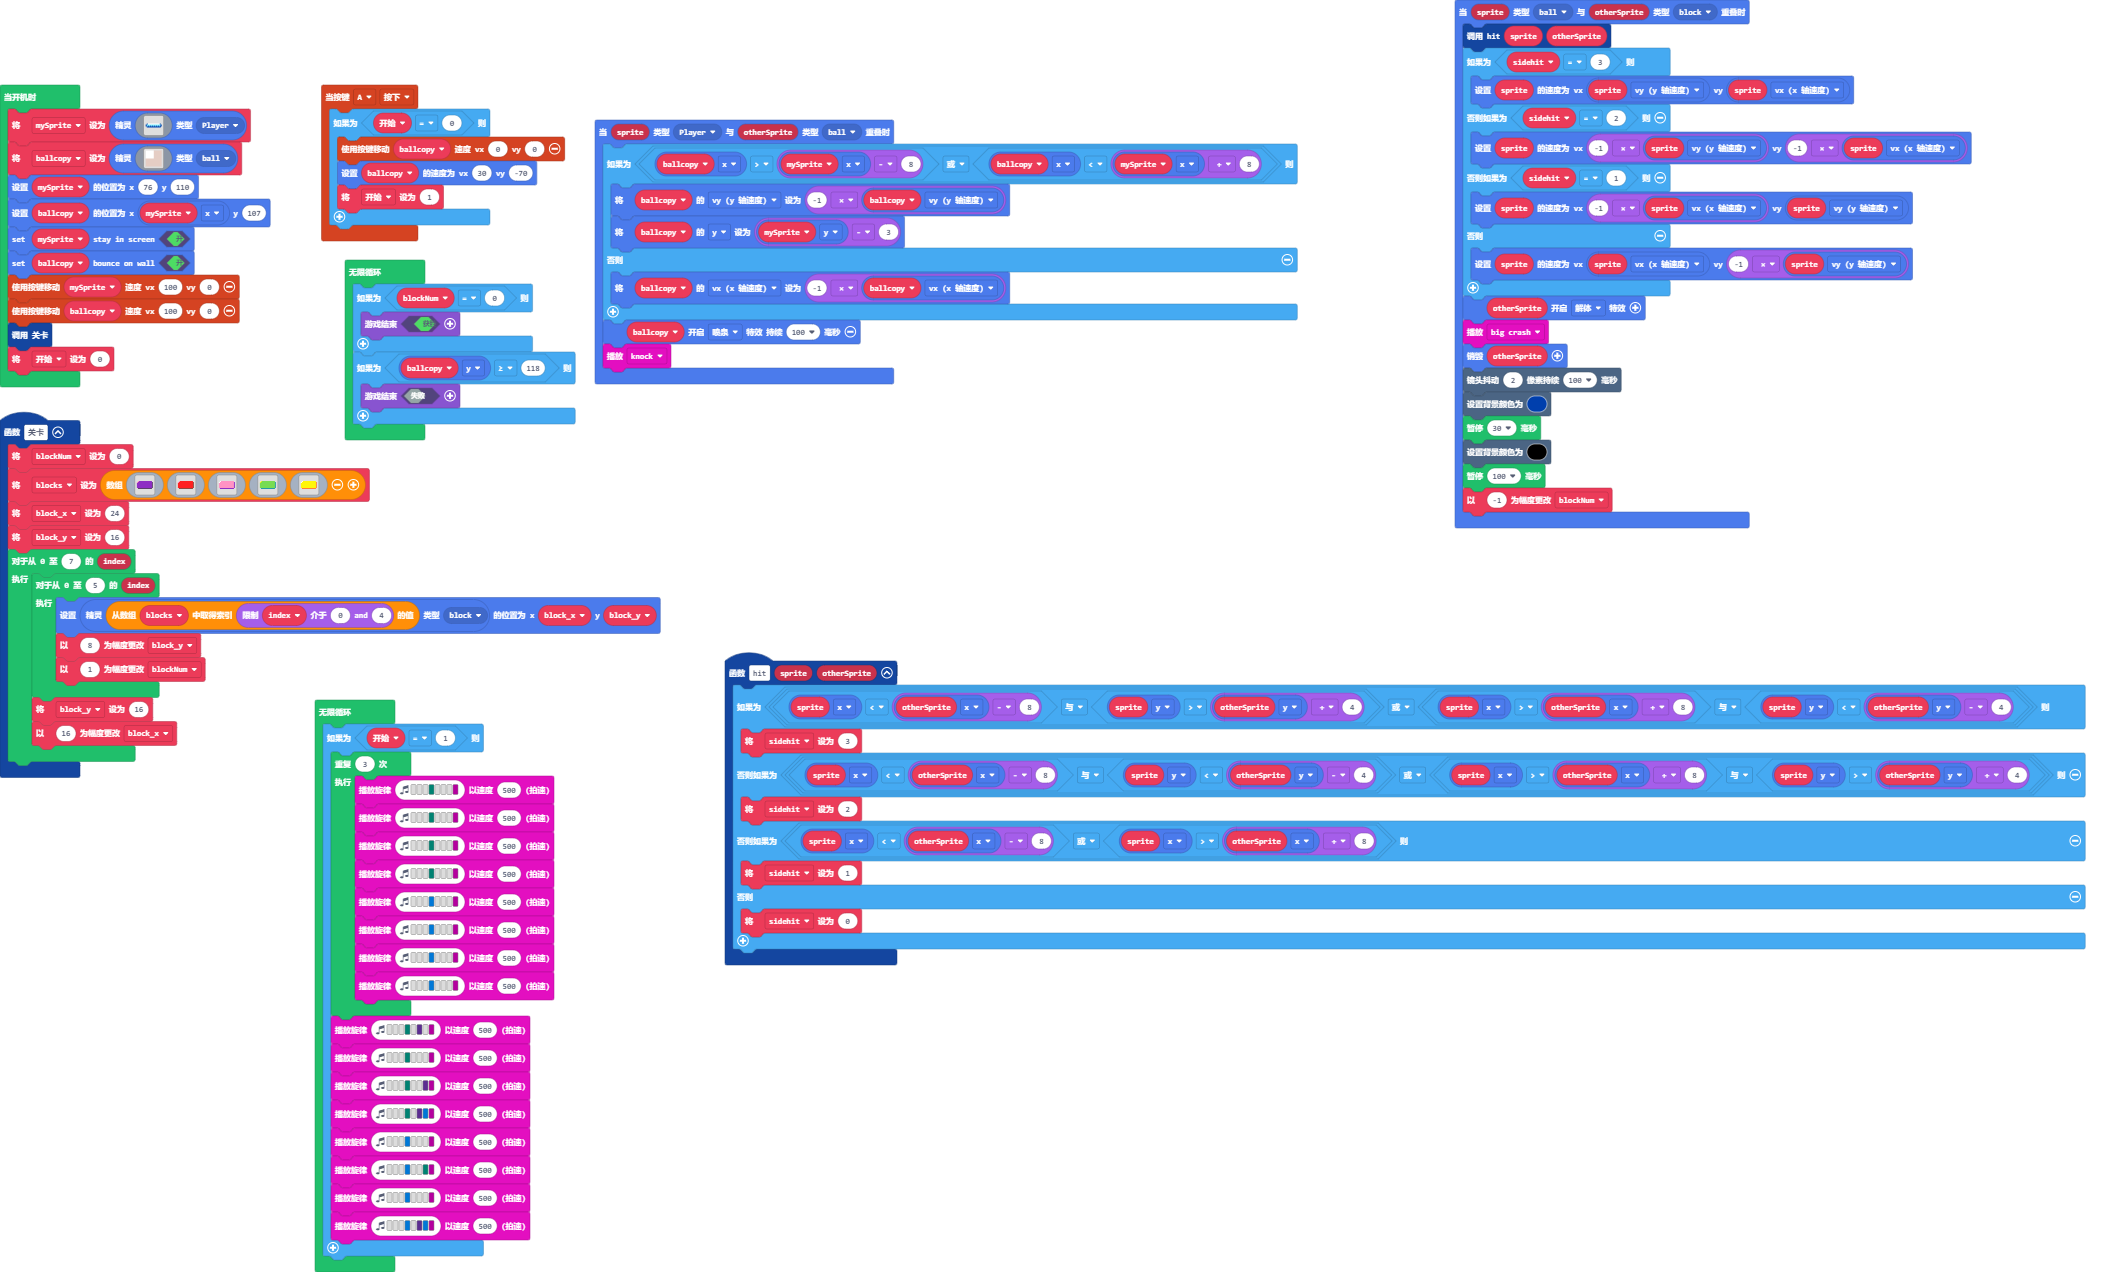
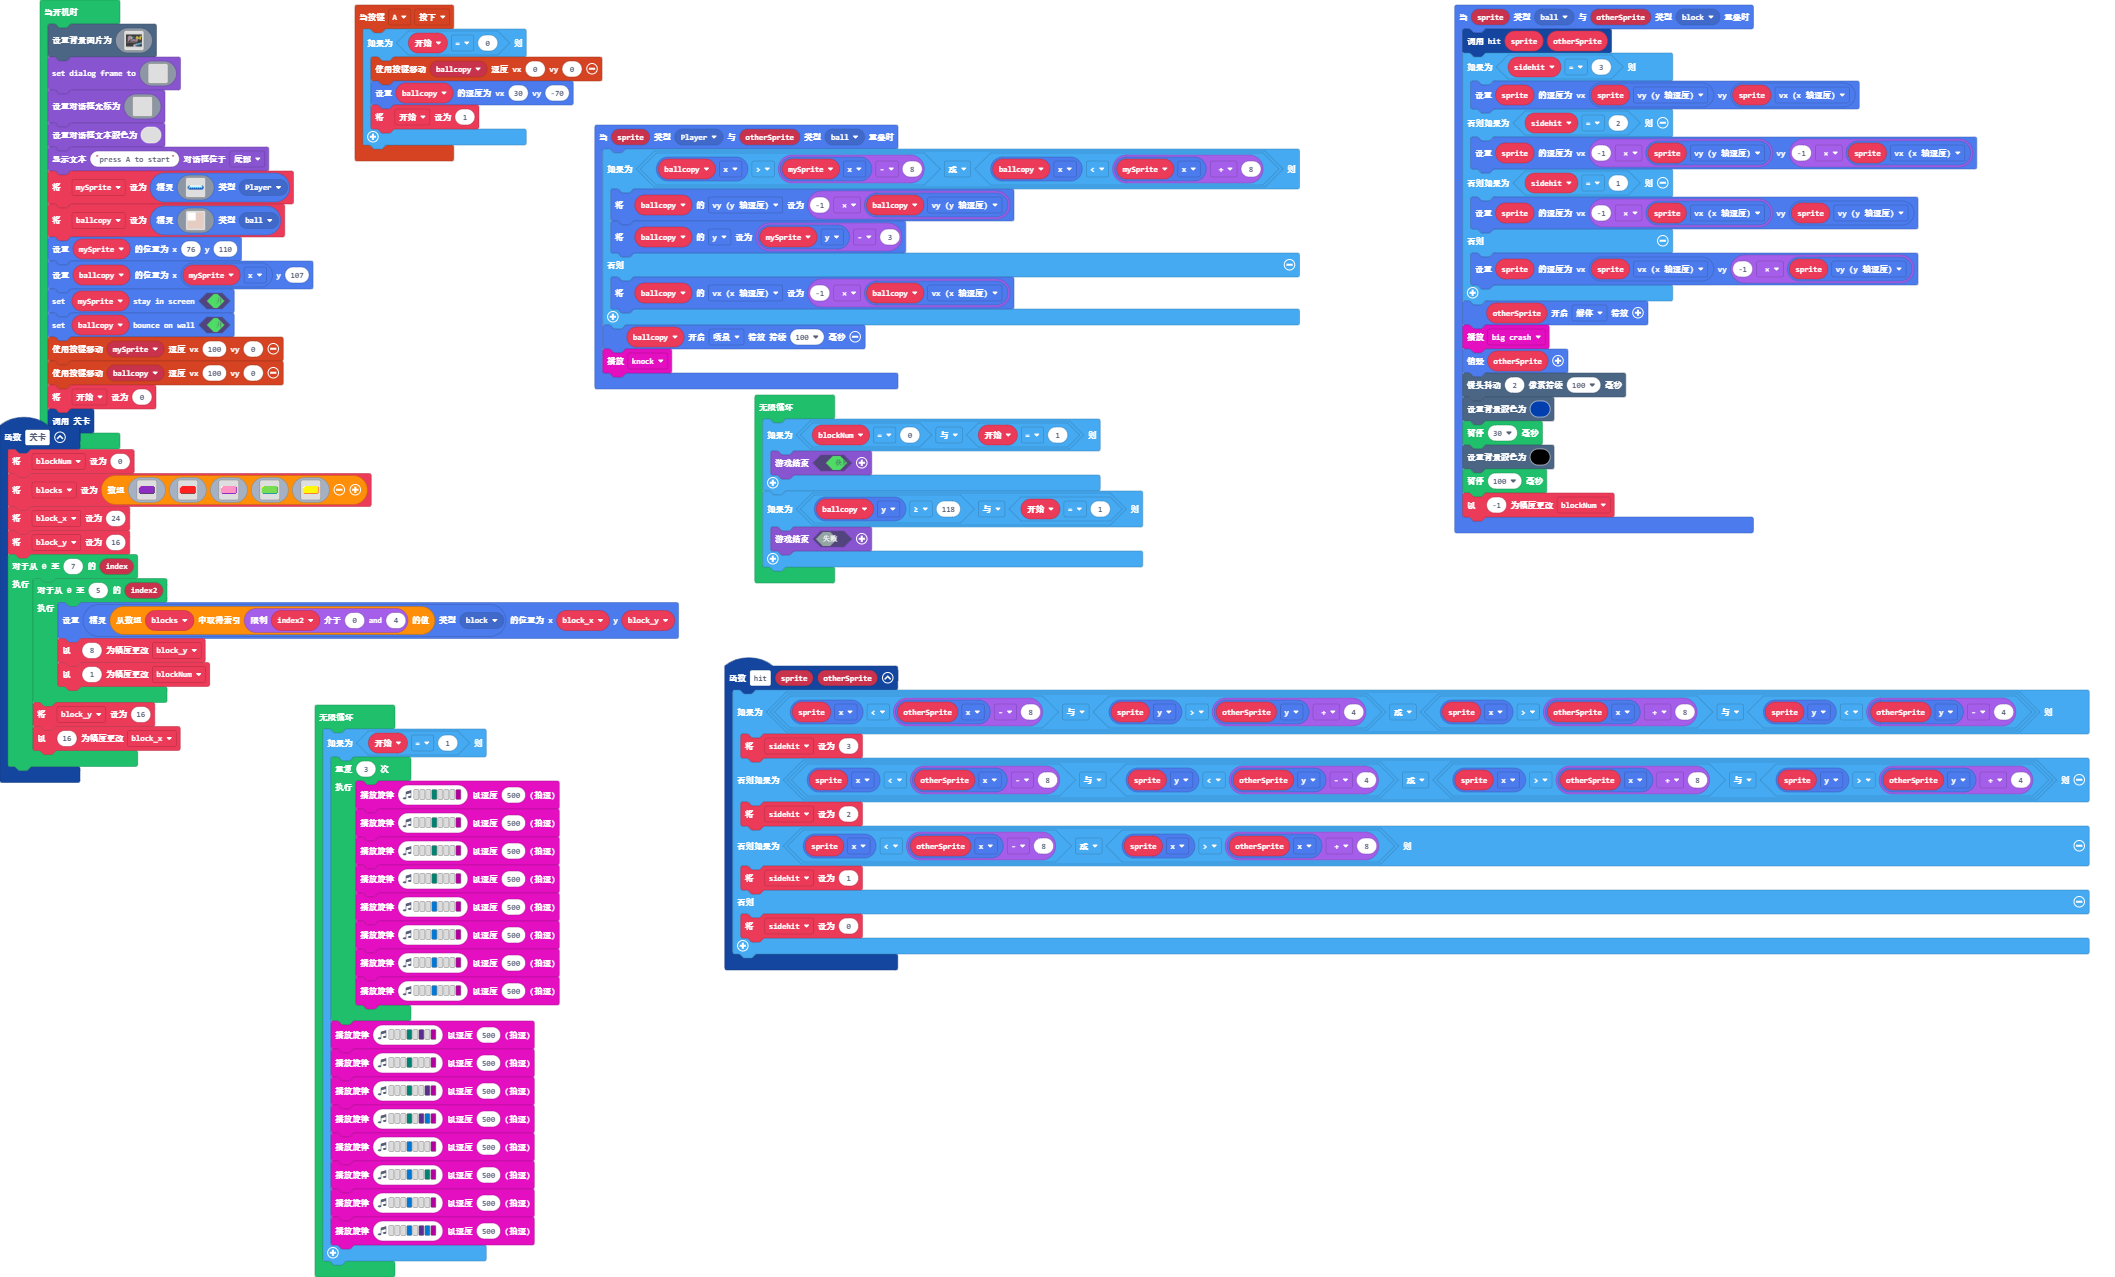
更新 main.blocks, main.ts, images.g.jres, images.g.ts

diff --git a/images.g.ts b/images.g.ts
@@ -74,6 +74,129 @@ a a a a a a a a a a a a a a a c
 5 5 5 5 5 5 5 5 5 5 5 5 5 5 5 4 
 . 4 4 4 4 4 4 4 4 4 4 4 4 4 4 . 
 `;
+            case "image8":
+            case "myImage0":return img`
+ffffffffffffffffffffffffffffffffffffffffffffffffffffffffffffffffffffffffffffffffffffffffffffffffffffffffffffffffffffffffffffffffffffffffffffffffffffffffffffffff
+ffffffffffffffffffffffffffffffffffffffffffffffffffffffffffffffffffffffffffffffffffffffffffffffffffffffffffffffffffffffffffffffffffffffffffffffffffffffffffffffff
+ffffffffffffffffffffffffffffffffffffffffffffffffffffffffffffffffffffffffffffffffffffffffffffffffffffffffffffffffffffffffffffffffffffffffffffffffffffffffffffffff
+ffffffffffffffffffffffffffffffffffffffffffffffffffffffffffffffffffffffffffffffffffffffffffffffffffffffffffffffffffffffffffffffffffffffffffffffffffffffffffffffff
+ffffffffffffffffffffffffffffffffffffffffffffffffffffffffffffffffffffffffffffffffffffffffffffffffffffffffffffffffffffffffffffffffffffffffffffffffffffffffffffffff
+ffffffffffffffffffffffffffffffffffffffffffffffffffffffffffffffffffffffffffffffffffffffffffffffffffffffffffffffffffffffffffffffffffffffffffffffffffffffffffffffff
+ffffffffffffffffffffffffffffffffffffffffffffffffffffffffffffffffffffffffffffffffffffffffffffffffffffffffffffffffffffffffffffffffffffffffffffffffffffffffffffffff
+ffffffffffffffffffffffffffffffffffffffffffffffffffffffffffffffffffffffffffffffffffffffffffffffffffffffffffffffffffffffffffffffffffffffffffffffffffffffffffffffff
+ffffffffffffffffffffffffffffffffffffffffffffffffffffffffffffffffffffffffffffffffffffffffffffffffffffffffffffffffffffffffffffffffffffffffffffffffffffffffffffffff
+ffffffffffffffffffffffffffffffffffffffffffffffffffffffffffffffffffffffffffffffffffffffffffffffffffffffffffffffffffffffffffffffffffffffffffffffffffffffffffffffff
+ffffffffffffffffffffffffffffffffffffffffffffffffffffffffffffffffffffffffffffffffffffffffffffffffffffffffffffffffffffffffffffffffffffffffffffffffffffffffffffffff
[46 lines of base64/hex data omitted]
+ffffffffffffffffccccccdbbbbbbbbbbbbffffffffffffccbcbcbcbcbbfffccccbbbbbbbbbbbbbbbbbbbbbbbbbfccbbbbbbbbbffccccbbbbbbbbbbfffffffffffffffffffffffffffffffffffffffff
+fffffffffffffffffcfcfcdbbbbbbbbbbbffffffffffffccccbcbcbcbbbfffcccbbbbbbbbbbbbbbbbbbbbbbbbbbfccbbbbbbbbffffcccbbbbbbbbbffffffffffffffffffffffffffffffffffffffffff
+ffffffffffffffffccccccdbbbbbbbbbbfffffffffffffccbbcbcbcbbbffffcccbbbbbbbbbbbbbbbbbbbbbbbbbbcccbbbbbbbbfffcccbbbbbbbbbbffffffffffffffffffffffffffffffffffffffffff
+fffffffffffffffffcfcfcdbbbbbbbbbbfffffffffffffcccbbbbbbbbbfffccccbbbbbbbbbbbbbbbbbbbbbbbbbfcccbbbbbbbbbffcccbbbbbbbbbfffffffffffffffffffffffffffffffffffffffffff
+ffffffffffffffffccccccbbbbbbbbbbffffffffffffffccbbbbbbbbbbfffcccbbbbbbbbbbbbbcccfbbbbbbbbbfcccbbbbbbbbbbddbbbbbbbbbbbfffffffffffffffffffffffffffffffffffffffffff
+fffffffffffffffcfcfcfcdbbbbbbbbffffffffffffffcccbbbbbbbbbffffcccbbbbbbbbbbbcfffccfbbbbbbbbfccccbbbbbbbbbbbbbbbbbbbbbbfffffffffffffffffffffffffffffffffffffffffff
+ffffffffffffffffcfcccdbbbbbbbbfffffffffffffffcccbbbbbbbbbfffcccbbbbbbbbbbbfffffccfbbbbbbbffcccccbbbbbbbbbbbbbbbbbbbbbfffffffffffffffffffffffffffffffffffffffffff
+fffffffffffffffcfcfccbbbbbbbbbfffffffffffffffcccbbbbbbbbbfffcccbbbbbbbbbbcfffffccbbbbbbbbffccccccbbbbbbbbbbbbbbbbbbbffffffffffffffffffffffffffffffffffffffffffff
+ffffffffffffffffcfcfcdbbbbbbbffffffffffffffffcccbbbbbbbbffffcccbbbbbbbbbbffffffccbbbbbbbffffccccccccbbbbbbbbbbbbbbbfffffffffffffffffffffffffffffffffffffffffffff
+fffffffffffffffcfcfccbbbbbbbfffffffffffffffffcccbbbbbbbbfffcccbbbbbbbbbbbffffffccbbbbbbcfffffccccfcfcfcfcffbbbbbbbbfffffffffffffffffffffffffffffffffffffffffffff
+ffffffffffffffffcfcfcdbbbbbbfffffffffffffffffcccbbbbbbbbfffcccbbbbbbbbbbffffffccfcfcfccffffffffcfcfcfcfcfccbbbbbbbffffffffffffffffffffffffffffffffffffffffffffff
+fffffffffffffffcfcfcbbbbbbbfffffffffffffffffcccbbbbbbbbffffccbbbbcccccccffffffcfcfffffffffffffffffffffffccbbbbbbbbffffffffffffffffffffffffffffffffffffffffffffff
+ffffffffffffffffcfcfbbbbbbffffffffffffffffffcccbbbbbbbbfffcccccfcfcfcfcffffffffffffffffffffffffffffffffcccbbbbbbbfffffffffffffffffffffffffffffffffffffffffffffff
+fffffffffffffffcfcfcbbbbbfffffffffffffffffffcccbbbbbbbbfffccfcfcfcfcffffffffffffffffffffffffffffffffffccbbbbbbbbbfffffffffffffffffffffffffffffffffffffffffffffff
+ffffffffffffffcfcfcfccccffffffffffffffffffffcccfcfcfcfcfffcfcfcfffffffffffffffffffffffffffffffffffffcccbbbbbbbbbffffffffffffffffffffffffffffffffffffffffffffffff
+fffffffffffffffcfcfcfccfffffffffffffffffffffccfcfcfcfffffffffffffffffffffffffffffffffffffffffffffbbbbbbbbbbbbbbfffffffffffffffffffffffffffffffffffffffffffffffff
+ffffffffffffffcfcfcfcfcfffffffffffffffffffffcfcffffffffffffffffffffffffffffffffffffffbbbbbbbbbbbbbbbbbbbbbbbbbffffffffffffffffffffffffffffffffffffffffffffffffff
+fffffffffffffffcfcfcfcfffffffffffffffffffffffffffffffffffffffffffffffffffbbbbbbbbbbbbbbbbbbbbbbbbbbbbbbbbbbbffffffffffffffffffffffffffffffffffffffffffffffffffff
+fffffffffffffffffffffffffffffffffffffffffffffffffffffffffffffbbbbbbbbbbbbbbbbbbbbbbbbbbbbbbbbbbbbbbbbbbbbbffffffffffffffffffffffffffffffffffffffffffffffffffffff
+ffffffffffffffffffffffffffffffffffffffffffffffffffbbbbbbbbbbbbbbbbbbbbbbbbbbbbbbbbbbbbbbbbbbbbbbbbbbbbbbffffffffffffffffffffffffffffffffffffffffffffffffffffffff
+ffffffffffffffffffffffffffffffffffffffbbbbbbbbbbbbbbbbbbbbbbbbbbbbbbbbbbbbbbbbbbbbbbbbbbbbbbbbbbbbbbbfffffffffffffffffffffffffffffffffffffffffffffffffffffffffff
+ffffffffffffffffffffffffffbbbbbbbbbbbbbbbbbbbbbbbbbbbbbbbbbbbbbbbbbbbbbbbbbbbccccccccccccccccccccfffffffffffffffffffffffffffffffffffffffffffffffffffffffffffffff
+ffffffffffffbbbbbbbbbbbbbbbbbbbbbbbbbbbbbbbbbbbbbbbbbbbbbbbccccccccccccccccccfffffffffffffffffffffffffffffffffffffffffffffffffffffffffffffffffffffffffffffffffff
+ffffbbbbbbbbbbbbbbbbbbbbbbbbbbbbbbbbbbbccccccccccccccccccccfffffffffffffffffffffffffffffffffffffffffffffffffffffffffffffffffffffffffffffffffffffffffffffffffffff
[39 lines of base64/hex data omitted]
+`;
         }
         return null;
     })

diff --git a/main.ts b/main.ts
@@ -26,8 +26,8 @@ function 关卡 () {
     block_x = 24
     block_y = 16
     for (let index = 0; index <= 7; index++) {
-        for (let index = 0; index <= 5; index++) {
-            sprites.create(blocks[Math.constrain(index, 0, 4)], SpriteKind.block).setPosition(block_x, block_y)
+        for (let index2 = 0; index2 <= 5; index2++) {
+            sprites.create(blocks[Math.constrain(index2, 0, 4)], SpriteKind.block).setPosition(block_x, block_y)
             block_y += 8
             blockNum += 1
         }
@@ -74,6 +74,44 @@ let sidehit = 0
 let 开始 = 0
 let ballcopy: Sprite = null
 let mySprite: Sprite = null
+scene.setBackgroundImage(assets.image`myImage0`)
+game.setDialogFrame(img`
+    . . . . . . . . . . . . . . . 
+    . . . . . . . . . . . . . . . 
+    . . . . . . . . . . . . . . . 
+    . . . . . . . . . . . . . . . 
+    . . . . . . . . . . . . . . . 
+    . . . . . . . . . . . . . . . 
+    . . . . . . . . . . . . . . . 
+    . . . . . . . . . . . . . . . 
+    . . . . . . . . . . . . . . . 
+    . . . . . . . . . . . . . . . 
+    . . . . . . . . . . . . . . . 
+    . . . . . . . . . . . . . . . 
+    . . . . . . . . . . . . . . . 
+    . . . . . . . . . . . . . . . 
+    . . . . . . . . . . . . . . . 
+    `)
+game.setDialogCursor(img`
+    . . . . . . . . . . . . . . . . 
+    . . . . . . . . . . . . . . . . 
+    . . . . . . . . . . . . . . . . 
+    . . . . . . . . . . . . . . . . 
+    . . . . . . . . . . . . . . . . 
+    . . . . . . . . . . . . . . . . 
+    . . . . . . . . . . . . . . . . 
+    . . . . . . . . . . . . . . . . 
+    . . . . . . . . . . . . . . . . 
+    . . . . . . . . . . . . . . . . 
+    . . . . . . . . . . . . . . . . 
+    . . . . . . . . . . . . . . . . 
+    . . . . . . . . . . . . . . . . 
+    . . . . . . . . . . . . . . . . 
+    . . . . . . . . . . . . . . . . 
+    . . . . . . . . . . . . . . . . 
+    `)
+game.setDialogTextColor(0)
+game.showLongText("press A to start", DialogLayout.Bottom)
 mySprite = sprites.create(assets.image`Temporary asset`, SpriteKind.Player)
 ballcopy = sprites.create(assets.image`Temporary asset0`, SpriteKind.ball)
 mySprite.setPosition(76, 110)
@@ -82,13 +120,13 @@ mySprite.setStayInScreen(true)
 ballcopy.setBounceOnWall(true)
 controller.moveSprite(mySprite, 100, 0)
 controller.moveSprite(ballcopy, 100, 0)
-关卡()
 开始 = 0
+关卡()
 forever(function () {
-    if (blockNum == 0) {
+    if (blockNum == 0 && 开始 == 1) {
         game.over(true)
     }
-    if (ballcopy.y >= 118) {
+    if (ballcopy.y >= 118 && 开始 == 1) {
         game.over(false)
     }
 })
